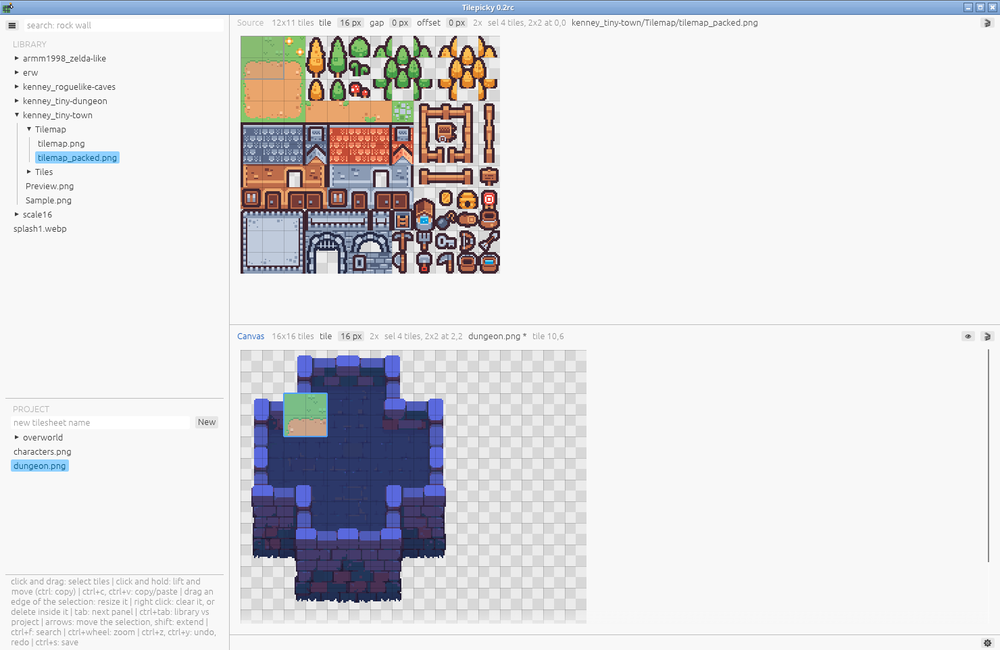
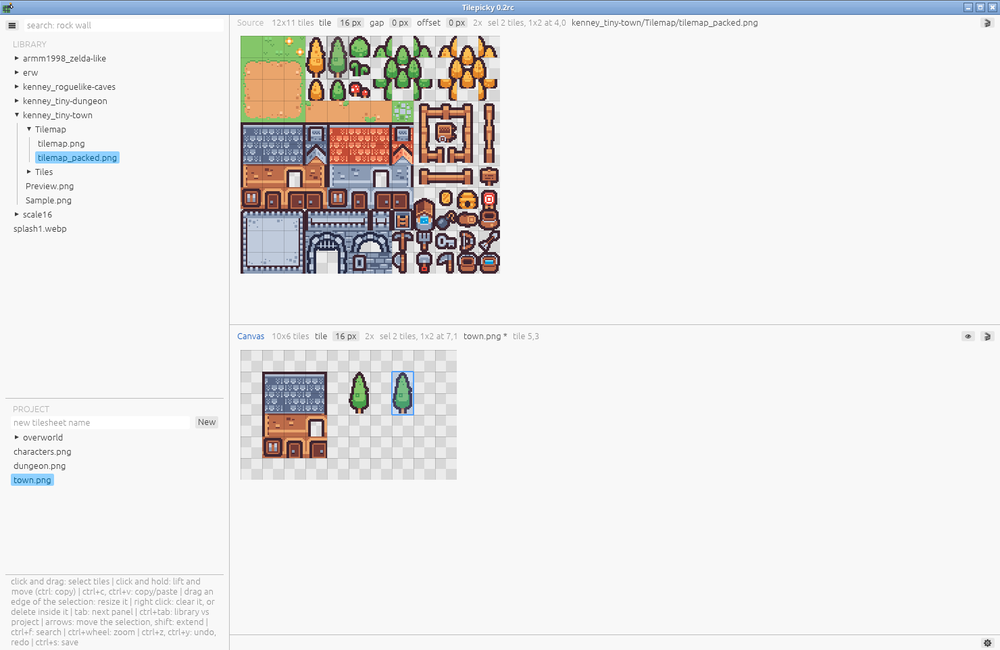
Film a take worth watching
The first recording showed keys nobody could see moving tiles nobody
wanted: a patch of grass dropped onto a dungeon wall, which reads as a
broken tilesheet rather than a tool working.

This one does the thing the tool is for. A whole house comes out of a
packed pack and lands in a tilesheet of your own, then two trees beside
it, and every key is captioned as it is pressed, because a film of a
keyboard with no keys in it looks the same as a film of a mouse.

Paste replaces pixels rather than blending them, so the sheet being
filled is empty, not a field: a transparent sprite dropped on a filled
tile leaves a hole. The layout picture is retaken from the same scene,
for the same reason.

Changed region(s): [[0.217, 0.4923, 0.589, 0.9538], [0.0, 0.7077, 0.093, 0.7692], [0.31, 0.0923, 0.341, 0.1231]]

diff --git a/AGENTS.md b/AGENTS.md
@@ -75,6 +75,15 @@ Four things that each cost an hour to find out:
   Its frame has no name of its own: find it as the parent of the app window,
   not by searching for the title.
 
+Decide the take before you film it. Say what a reader should think when
+they see it, and build a project that makes them think it: the tool picks
+tiles out of a pack into a tilesheet of your own, so the film pulls a whole
+house out of a packed sheet and plants two trees beside it. Paste replaces
+pixels, it does not blend them, so a transparent sprite dropped on a filled
+tile leaves a hole; a sheet that fills up reads as work, a map with holes in
+it reads as a broken tilesheet. Caption the keys: a film of a keyboard with
+no keys in it looks the same as a film of a mouse.
+
 Drive the app with XTEST through python-xlib. Prepare the state off camera
 and record only the part worth watching. Count the rows of a tree from a
 fresh start: the keys begin on the title of a pane, so the first Down enters

diff --git a/README.md b/README.md
@@ -95,7 +95,7 @@ Right and Left unfold and fold a folder. The title of the pane that holds the
 keys is deep blue, and so is the selection of its sheet, so a glance says
 where you are.
 
-![Walking the library tree, opening a sheet, selecting tiles and pasting them into a tilesheet, all from the keyboard](https://raw.githubusercontent.com/spookysys/tilepicky/main/media/keyboard.gif)
+![A whole house and two trees are picked out of a pack into a tilesheet of your own, without the mouse](https://raw.githubusercontent.com/spookysys/tilepicky/main/media/keyboard.gif)
 
 The legend along the foot of the window holds the keys worth knowing. The
 settings, behind the gear, hide it once you no longer need it.
